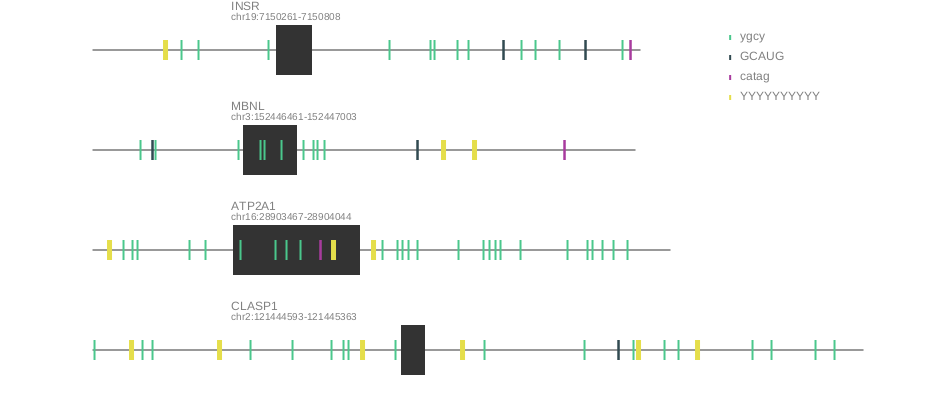
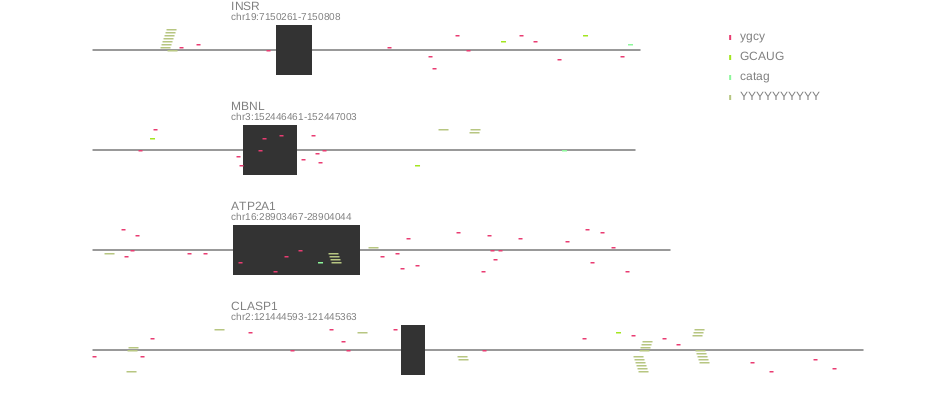
updated to match overlapping patterns

diff --git a/python/motif_mark_oop.py b/python/motif_mark_oop.py
@@ -97,6 +97,8 @@ class Gene:
         for pattern in motif.combos:
             matches = []
             # TODO: need to account for overlapping (for example 'aaaaaa' would only return one match for 'aaaa')
+            pattern = '(?={0})'.format(pattern)
+            print(pattern)
             pattern_matches = [m.start(0) for m in re.finditer(pattern,sequence)]
             if len(pattern_matches) > 0:
                 for pattern_match in pattern_matches:
@@ -146,9 +148,9 @@ def generate_pycairo_legend(context,motif_color_dict,x,y):
         y += 20
 
 def generate_random_color(context):
-    red = random.random()
-    blue = random.random()
-    green = random.random()
+    red = random.uniform(0,1)
+    blue = random.uniform(0,1)
+    green = random.uniform(0,1)
     context.set_source_rgb(red,blue,green)
     return red,blue,green
 
@@ -239,12 +241,17 @@ def generate_pycairo(master_dict,output_file:str):
                 motif_color_dict[pattern] = [red,blue,green]
                 
             # TODO: put length of motif in motif class (not sure best way to handle)
-            context.set_line_width(len(pattern) / 2)
+            context.set_line_width(len(pattern))
 
             for match_loc in matches:
-                stagger_height_adjustment = match_loc % 4 * 2
-                context.move_to(match_loc+start,gene_center-10)
-                context.line_to(match_loc+start,gene_center+10)
+                # TODO: clean this up
+                threshold = 16
+                if match_loc % threshold > threshold / 2:
+                    stagger_height_adjustment = match_loc % 8 * 3
+                else:
+                    stagger_height_adjustment = match_loc % 8 * -3
+                context.move_to(match_loc+start,gene_center-stagger_height_adjustment)
+                context.line_to(match_loc+start,gene_center-stagger_height_adjustment+1.5)
                 context.stroke()
 
         # adjust height for next gene
@@ -288,7 +295,7 @@ def main():
     main program
     """
     # set random seed
-    random.seed(1000)
+    random.seed(100)
 
     # read in args
     args = parse_args()

diff --git a/python/unittest_motif_mark_oop.py b/python/unittest_motif_mark_oop.py
@@ -68,6 +68,7 @@ class TestGene(unittest.TestCase):
 
     def test_identify_matches(self):
         self.gene.identify_matches(self.motif,self.sequence)
+        print(self.gene.matches)
         self.assertDictEqual(self.gene.matches,{self.motif:[4, 0, 8]})
 
 class TestAdditionalMethods(unittest.TestCase):
